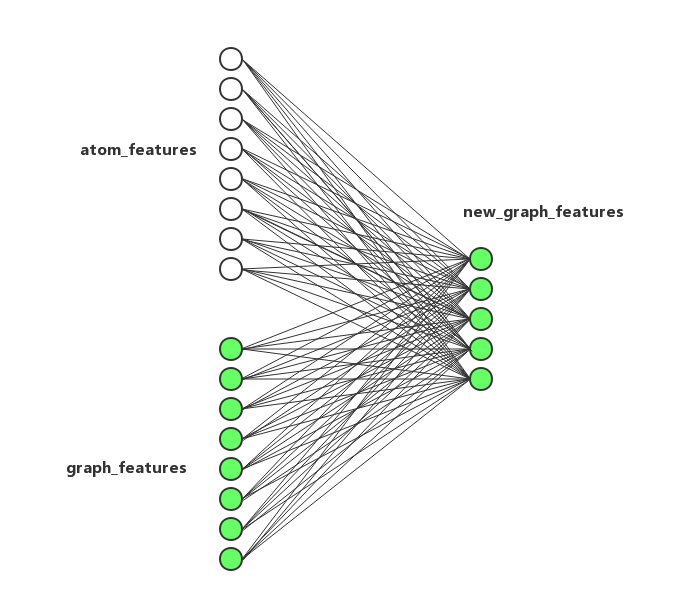
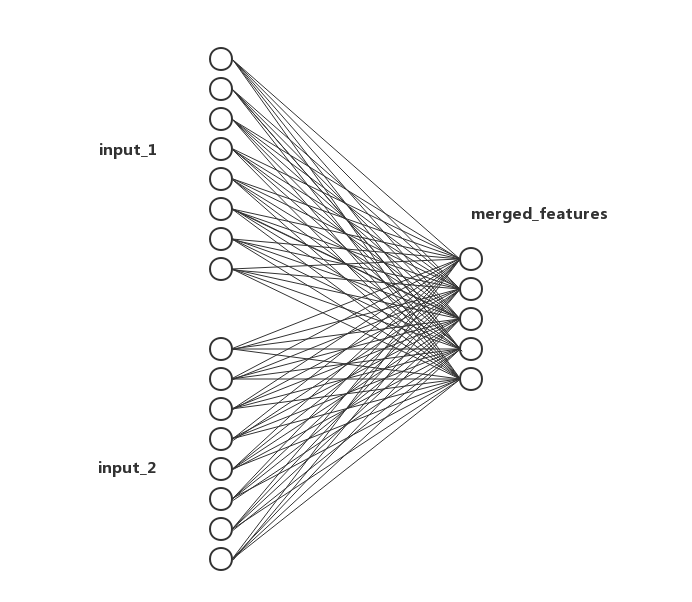
update

Changed region(s): [[0.1214, 0.0598, 0.7283, 0.9568], [0.6676, 0.3289, 0.9104, 0.3887], [0.091, 0.7475, 0.2731, 0.8073]]

diff --git a/_cookies/git_projects.md b/_cookies/git_projects.md
@@ -46,3 +46,6 @@ title: Github projects
   [https://cyclicarx.com/about-us/our-team/](https://cyclicarx.com/about-us/our-team/)
 
 * [voicecode.io](http://voicecode.io/)
+
+* **rapidminer** Data Science Behind Every Decision. 
+  [https://rapidminer.com/](https://rapidminer.com/)

diff --git a/_posts/2017-01-16-merge-layer.md b/_posts/2017-01-16-merge-layer.md
@@ -1,0 +1,7 @@
+---
+layout: post
+title: Merge layer
+date: 2016-12-30
+---
+
+![merge-layer](/images/neural_fingerprint_hidden.png)
